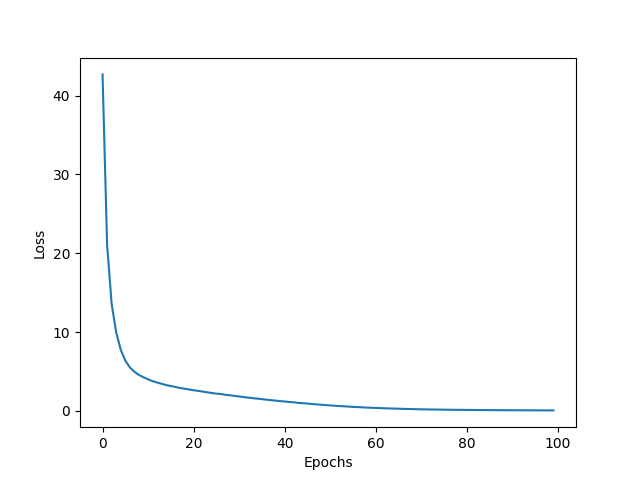
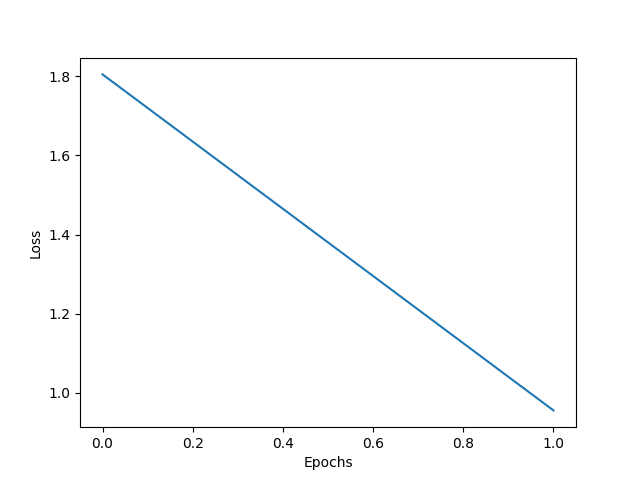
Batch norm + grid search with tuner

diff --git a/main.py b/main.py
@@ -1,3 +1,4 @@
+import subprocess
 import io
 from time import time
 from typing import Tuple
@@ -16,10 +17,10 @@ from sklearn.svm import SVC
 from collections import OrderedDict
 import torch
 from torch.utils.data import DataLoader
-import itertools
+from ray import tune
 
 __DATA_PATH = './ml-25m'
-__IMG_PATH = './img'
+__IMG_PATH = os.path.join(os.path.realpath('.'), 'img')
 __SEED = 42
 __logging_level = logging.INFO
 
@@ -57,12 +58,12 @@ class NeuralNetwork(torch.nn.Module):
         layers = OrderedDict()
         layers[str(len(layers))] = torch.nn.Linear(
             input_layer_size, hidden_layer_size)
-        layers[str(len(layers))] = torch.nn.BatchNorm1d(hidden_layer_size)
+        # layers[str(len(layers))] = torch.nn.BatchNorm1d(hidden_layer_size)
         layers[str(len(layers))] = self.activation_function
         for i in range(0, number_hidden_layers):
             layers[str(len(layers))] = torch.nn.Linear(
                 hidden_layer_size, hidden_layer_size)
-            layers[str(len(layers))] = torch.nn.BatchNorm1d(hidden_layer_size)
+            # layers[str(len(layers))] = torch.nn.BatchNorm1d(hidden_layer_size)
             layers[str(len(layers))] = self.activation_function
         layers[str(len(layers))] = torch.nn.Linear(
             hidden_layer_size, output_layer_size)
@@ -94,10 +95,7 @@ class NeuralNetwork(torch.nn.Module):
                 epoch_loss.append(loss.item())
                 loss.backward()
                 optimizer.step()
-            loss = 0
-            for loss_i in epoch_loss:
-                loss += loss_i
-            loss = loss/data.batch_size
+            loss = np.mean(epoch_loss)
             logging.info("Epoch: " + str(epoch) + " avg. loss: " +
                          str(loss))
             loss_over_epochs.append(loss)
@@ -198,54 +196,51 @@ def resample_data(X_train, y_train, encoder) -> Tuple[pd.DataFrame, pd.Series]:
     return X_train, y_train
 
 
-def analyze_data(X_train: pd.DataFrame, Y_train: pd.Series, x_test: pd.DataFrame, y_test: pd.Series):
+def train_models(X_train: pd.DataFrame, Y_train: pd.Series):
     # TODO: Test standardized and normalized data
+    # TODO: Return hyperparams and best trained models
     # Naive Bayes
-    '''nb = GaussianNB()
+    nb = GaussianNB()
     nb.fit(X_train, Y_train)
-    nb.predict(x_test)
     print("NB accuracy on training",
           nb.score(X_train, Y_train))
-    print("NB accuracy on testing:", nb.score(x_test, y_test))
     # Random forest classifier
     rf = RandomForestClassifier(random_state=__SEED)
     rf.fit(X_train, Y_train)
-    rf.predict(x_test)
-    print("RF accuracy on training: " + str(rf.score(X_train, Y_train)))
-    print("RF accuracy on testing: " + str(rf.score(x_test, y_test)))
+    print("RF accuracy on training: ", rf.score(X_train, Y_train))
     # SVM
     svc = SVC(kernel='rbf')
     svc.fit(X_train, Y_train)
-    svc.predict(x_test)
     print("SVC accuracy on training:", svc.score(X_train, Y_train))
-    print("SVC accuracy on testing:", svc.score(x_test, y_test))'''
     # MLP
     logging.info("This device has " +
                  _available_devices().type + " available.")
     # MLP hyperparams
-    hidden_layer_size = [512]  # [8, 16, 32, 64, 128, 256, 512]
-    number_hidden_layers = [2]  # [2, 4, 8, 16]
-    learning_rate = [0.01]  # [0.001, 0.01]
-    momentum = [0.009]  # [0.009, 0.09]
-    batch_size = [32]  # [8, 16, 32]
-    epochs = [100]  # [10, 100, 500]
-    hyperparams = itertools.product(
-        hidden_layer_size, number_hidden_layers, learning_rate, momentum, batch_size, epochs)
-    # torch.use_deterministic_algorithms(True)
-    # torch.manual_seed(__SEED)
-    # Questa e` una grid search... se volessi fare una random?
-    for hidden_size, number_hidden, lr, m, size, epoch in hyperparams:
+    hidden_layer_size = tune.grid_search([8, 16, 32, 64, 128, 256, 512])
+    number_hidden_layers = tune.grid_search([2, 4, 8, 16])
+    learning_rate = tune.grid_search([0.001, 0.01])
+    momentum = tune.grid_search([0.009, 0.09])
+    batch_size = tune.grid_search([8, 16, 32])
+    epochs = tune.grid_search([2, 4, 8])
+    configs = {"hidden_layer_size": hidden_layer_size, "number_hidden_layers": number_hidden_layers,
+               "learning_rate": learning_rate, "momentum": momentum, "batch_size": batch_size,
+               "epochs": epochs}
+
+    def train_nn(config: dict):
         train_loader = DataLoader(
-            Dataset(X_train, Y_train), size, shuffle=True, drop_last=True)
-        mlp = NeuralNetwork(X_train.shape[1], hidden_size, len(
-            Y_train.unique()), number_hidden)
+            Dataset(X_train, Y_train), config['batch_size'], shuffle=True, drop_last=True)
+        mlp = NeuralNetwork(X_train.shape[1], config['hidden_layer_size'], len(
+            Y_train.unique()), config['number_hidden_layers'])
         logging.info(mlp)
         mlp, loss = mlp._train(torch.nn.CrossEntropyLoss(), torch.optim.SGD(
-            mlp.parameters(), lr, m), epoch, train_loader)
-    plt.plot(range(epochs), loss)
-    plot(["Epochs", "Loss"], "mlp_loss_progr_batchnorm")
-    # test_loader = DataLoader(Dataset(x_test, y_test),batch_size, shuffle=True, drop_last=True)
-    # TODO: Test neural network
+            mlp.parameters(), config['learning_rate'], config['momentum']), config['epochs'], train_loader)
+        tune.report(mean_loss=loss[-1])
+        plt.plot(range(config['epochs']), loss)
+        plot(["Epochs", "Loss"], "mlp_loss_progr")
+    results = tune.run(train_nn, config=configs,
+                       local_dir=os.path.realpath("."), verbose=0)
+    logging.info("Best config nn is: " +
+                 str(results.get_best_config(metric="mean_loss", mode="min")))
 
 
 def plot(axis_labels, fig_name):
@@ -273,6 +268,7 @@ if __name__ == "__main__":
     X_train, X_val, X_test = dim_reduction(X_train, X_val, X_test)
     # Data resampling
     X_train, y_train = resample_data(X_train, y_train, encoder)
-    # Analysis
-    analyze_data(X_train, y_train, X_test, y_test)
+    # Models train
+    trained_models = train_models(X_train, y_train)
+    # Models test
     logging.info("Elapsed time " + str(time()-t0) + "s")
